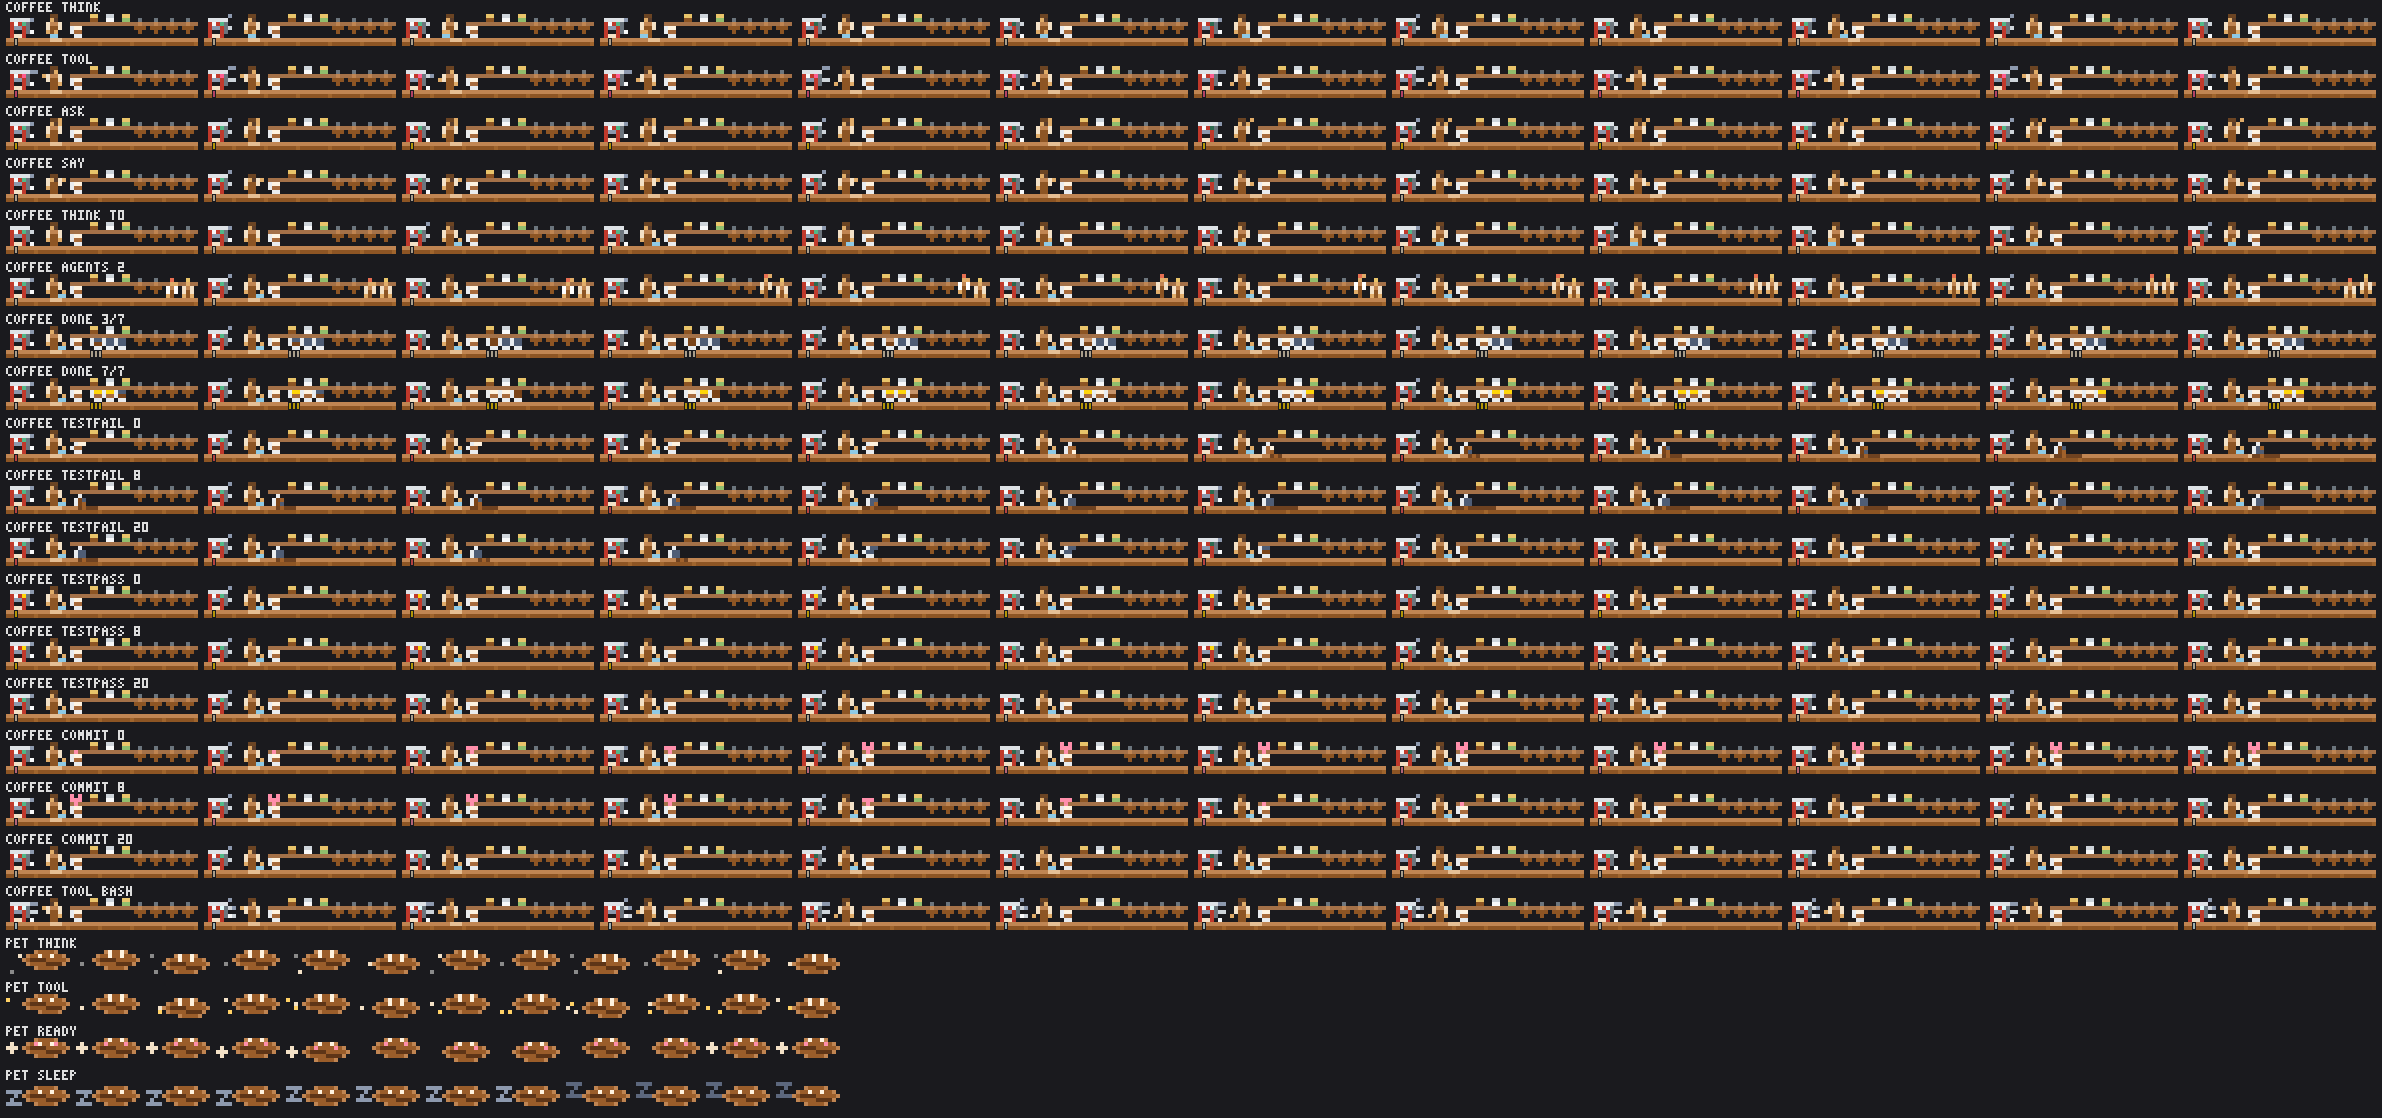
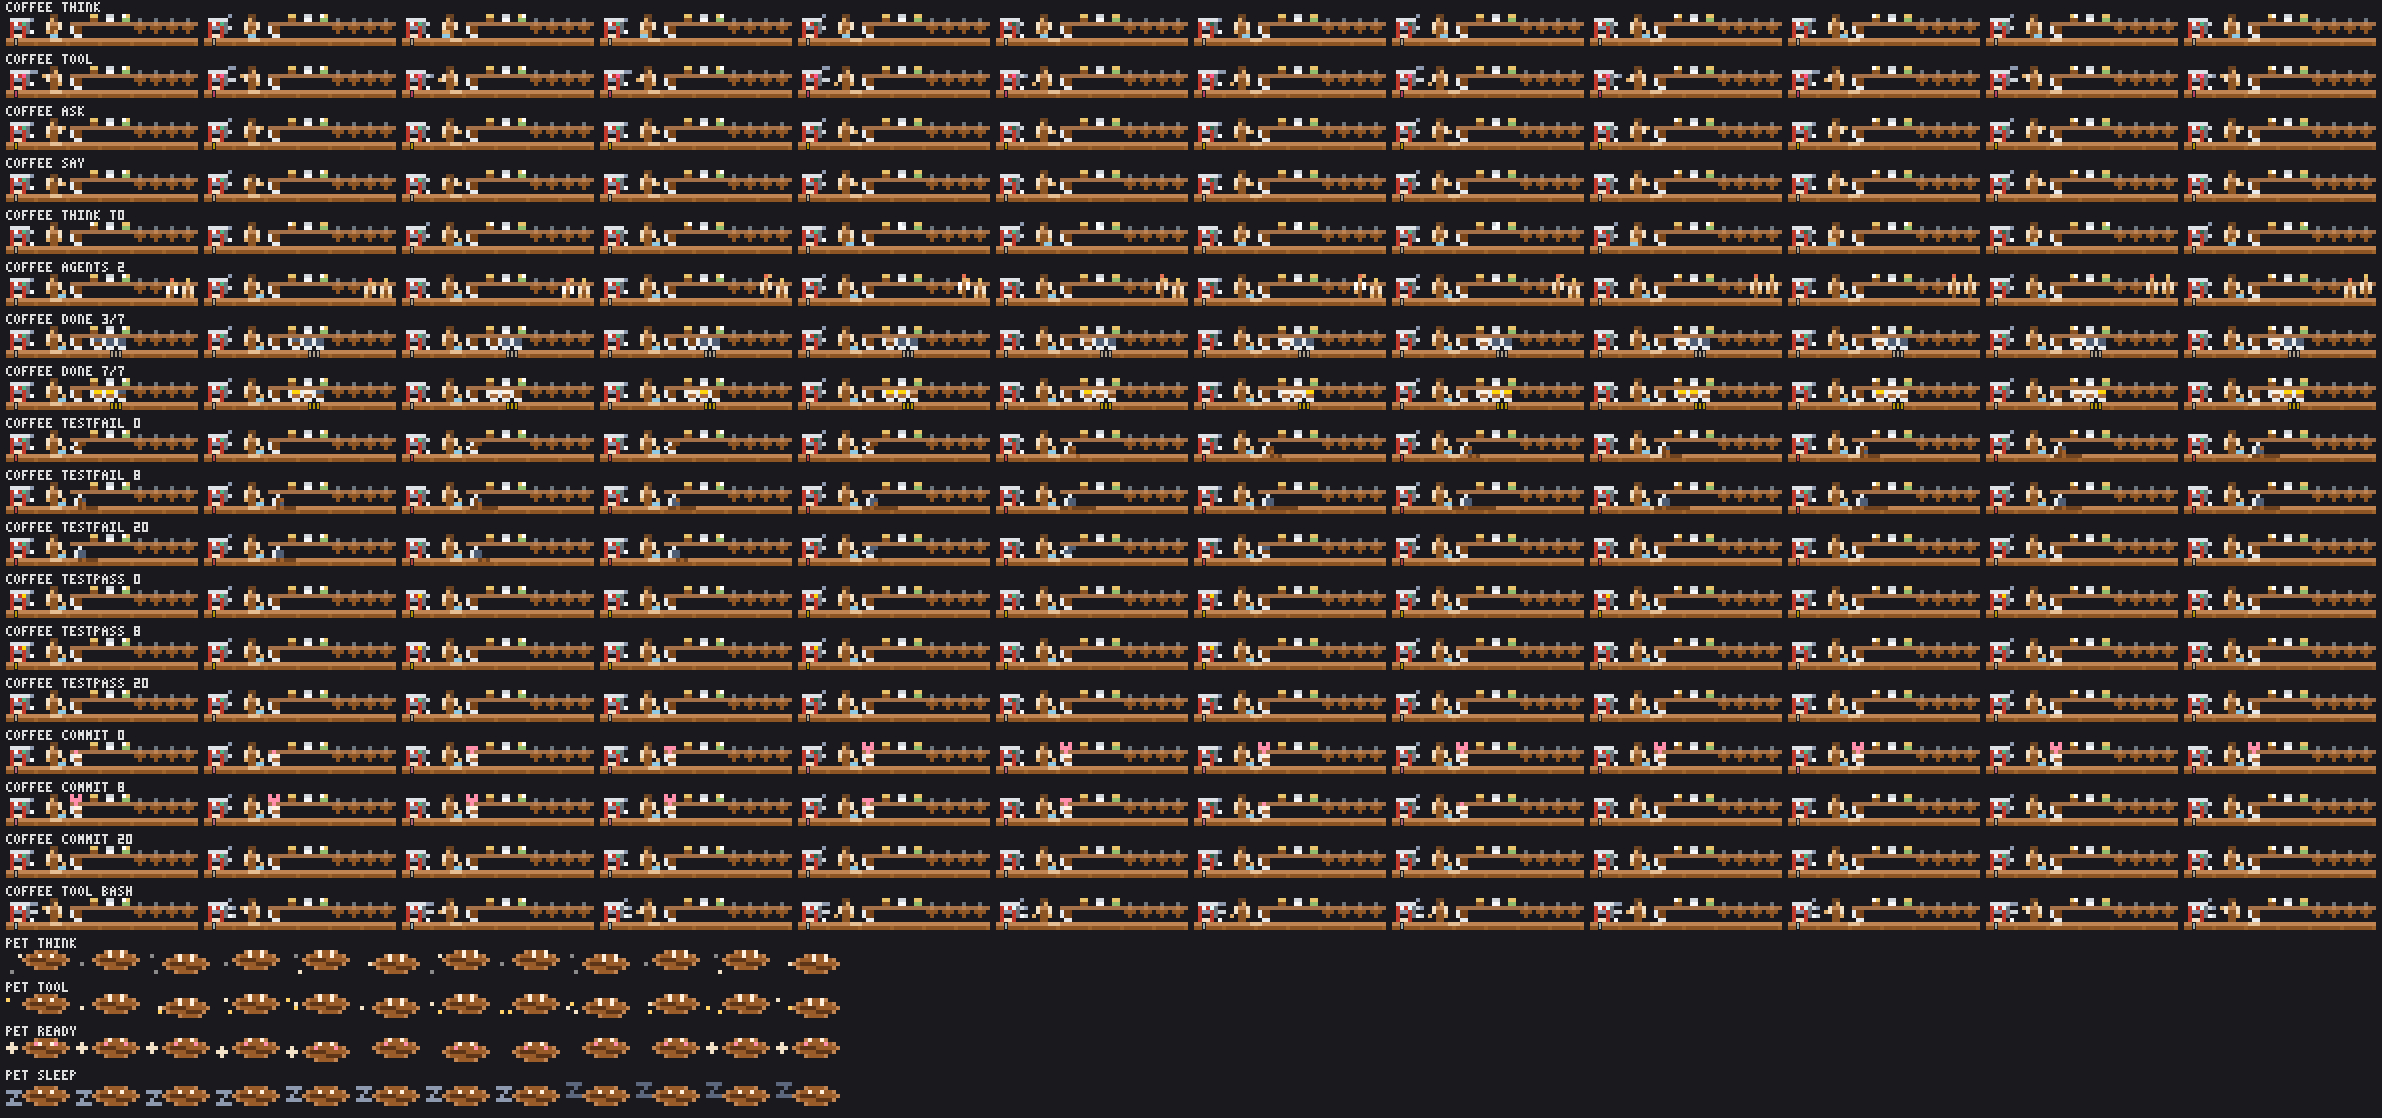
showtime: coffee — review fix: a glint steps across the jar lids a pixel every other frame by `t` so the shelf layer moves in every strip; the ask wave stays at the shoulder; the front cup is a plain espresso at rest; the readout sits clear of the puddle

diff --git a/showtime/hooks/themes/coffee.ts b/showtime/hooks/themes/coffee.ts
@@ -1,11 +1,11 @@
 // Theme: coffee. Its scene, its words and its pet.
 //
 // The scene: a barista in a brown apron (#8d5524, cream sleeves) behind a wooden counter whose top's sheen slides
-// by `t`, a red espresso machine at the left, jars on a shelf behind. Steam rises from its wand a pixel a frame
-// in every act; a tool thickens it on `actAge`, bash puffs it on a 2-frame cycle, edit drips into the shot cup,
-// and the lamp and the chalk sign on the counter name the tool. He wipes the counter thinking (12 frames), works
-// the machine in a tool, raises a hand asking, gestures saying, leans waiting. A glass mug per task, `done` of
-// them filled (the newest in four stages); a barista per agent at an apron's peg, waving as it joins. testFail tips
+// by `t`, a red espresso machine at the left, jars on a shelf behind (a glint crossing their lids). Steam rises
+// from its wand a pixel a frame in every act; a tool thickens it on `actAge`, bash puffs it on a 2-frame cycle, edit
+// drips into the shot cup, and the lamp and the chalk sign name the tool. He wipes the counter thinking (12 frames),
+// works the machine in a tool, waves at the shoulder asking, gestures saying, leans waiting. A glass mug per task,
+// `done` of them lattes (the newest filling in four stages); a barista per agent at an apron's peg. testFail tips
 // the front cup and spills a puddle; testPass stars the sign; a commit lifts a latte-art heart off the front cup.
 // Motion rules: the steam column touches the machine in every cell row and its mask changes every frame, so no
 // frame holds and it never starts a run; the shelf breaks at the front cup so the heart starts over a run start.
@@ -22,6 +22,8 @@ type Ink = Record<string, string>
  * an agent's slot pitch; the most cups and agents. */
 const [STEAM_X, BAR_X, FRONT_X, CUPS_X, CUP_PITCH, SLOT_W] = [6, 10, 16, 21, 3, 4]
 const [MAX_CUPS, MAX_AGENTS] = [12, 4]
+/** The chalk readout's column on the counter front, clear of the spill's puddle (FRONT_X + 4 ± 5). */
+const READOUT_X = 26
 /** Frames: an act's change, a fill stage, a greeting, the 100% shimmer; a passed test, the heart; a spill. */
 const [CHANGE_FRAMES, FILL_STEP, GREET_FRAMES, ALL_FRAMES, PASS_FRAMES, HEART_FRAMES, SPILL_FRAMES] =
   [4, 2, 8, 16, 16, 16, 30]
@@ -31,6 +33,7 @@ const [BODY, WAND, TRAY, STEEL, GAUGE, SHOT] = ['#c0392b', '#6c757d', '#dee2e6',
 const [STEAM_HOT, STEAM, STEAM_DIM] = ['#f8f9fa', '#ced4da', '#8d99ae']
 const [GLASS, EMPTY, ESPRESSO, MILK, FOAM, LATTE] = ['#e9ecef', '#4f5d75', '#7a4419', '#c8956b', '#fff3e0', '#a86b3c']
 const [TOP, SHEEN, FRONT, SEAM, PUDDLE, GLOSS] = [RIM, '#e6bf94', BROWN, '#a0652d', '#6f4220', '#a0612b']
+const GLINT = '#ffffff'
 const [SHELF, CLOTH, GOLD, RED, HEART, GREEN] = ['#a47148', '#8ecae6', '#ffd60a', '#ff5d5d', '#ff8fab', '#52b788']
 const JARS = [['#e9c46a', BROWN], ['#ced4da', '#f8f9fa'], ['#e9c46a', '#90be6d'], ['#ced4da', '#b5651d']]
 const AGENT_HAIR = ['#e9c46a', '#e76f51', '#90be6d', '#a8dadc']
@@ -113,12 +116,12 @@ function pose(s: Signals): { dy: number; hy: number; face: number; hands: Px[]; 
     return { dy: 0, hy: 0, face: a < 1 ? 1 : -1, hands: [[BAR_X - 1, a < 1 ? 4 : frame(PULL, a - 1)], right] }
   }
   if (s.act === 'ask') {
-    const raise: Px[][] = [[right], [[BAR_X + 4, 3]], [[BAR_X + 4, 2]], [[BAR_X + 3, 1]]]
-    const wave: Px[] = mod(a, 12) < 6 ? [[BAR_X + 3, 1], [BAR_X + 4, 0]] : [[BAR_X + 3, 1], [BAR_X + 3, 0]]
-    return { dy: 0, hy: 0, face: 1, hands: [left, ...(a < 4 ? raise[a]! : wave)] }
+    // Raised to the shoulder (never above pixel row 2, so leaving drops it a cell at most), waving up and down.
+    const hand: Px = a < 1 ? right : a < 2 ? [BAR_X + 4, 3] : [BAR_X + 4, mod(a - 2, 12) < 6 ? 2 : 3]
+    return { dy: 0, hy: 0, face: 1, hands: [left, hand] }
   }
   if (s.act === 'say') {
-    const hand: Px = a < 1 ? right : [BAR_X + 4, mod(a, 12) < 6 ? 3 : 2]
+    const hand: Px = a < 1 ? right : [BAR_X + 4, 3]
     return { dy: 0, hy: mod(a, 12) >= 6 && mod(a, 12) < 9 ? 1 : 0, face: 1, hands: [left, hand] }
   }
   return { dy: mod(a, 16) < 8 ? 0 : 1, hy: 0, face: 1, hands: a < 1 ? [left, right] : [[BAR_X, 5], [BAR_X + 3, 5]] }
@@ -155,10 +158,13 @@ export function coffeeScene(t: number, w: number, s: Signals): Grid {
 
   // Layer 1: the shelf behind (broken left of the front cup, so the heart rises from a run start) and its jars.
   for (let x = FRONT_X; x < w; x++) plot(cv, x, 2, SHELF)
-  for (let j = 0, x = CUPS_X; x + 1 <= limit; j++, x += 4) {
+  // A glint steps across the lids a pixel every other frame by `t`, then rests two steps before it comes round.
+  const jars = Math.max(0, Math.floor((limit - CUPS_X + 3) / 4))
+  const glint = mod(t >> 1, Math.max(6, 2 * jars + 2))
+  for (let j = 0, x = CUPS_X; j < jars; j++, x += 4) {
     const [lid, fill] = JARS[mod(j, JARS.length)]!
     for (const c of [0, 1]) {
-      plot(cv, x + c, 0, lid!)
+      plot(cv, x + c, 0, glint === 2 * j + c ? GLINT : lid!)
       plot(cv, x + c, 1, fill!)
     }
   }
@@ -211,13 +217,13 @@ export function coffeeScene(t: number, w: number, s: Signals): Grid {
   let puddle = -1
   if (fail >= 0) {
     const tip = fail < 1 ? 1 : fail < 2 ? 0 : fail < 5 ? 1 : fail < 24 ? 2 : fail < 26 ? 1 : 0
-    const stage = fail < 7 ? 4 : fail < 11 ? 1 : fail < 26 ? 0 : Math.min(4, fail - 25)
+    const stage = fail < 7 ? 2 : fail < 11 ? 1 : fail < 26 ? 0 : Math.min(2, fail - 25)
     mug(cv, FRONT_X, stage, tip)
     // Pouring out of its mouth (in the cup's own column, so nothing bridges to the next cup) onto the counter.
     if (fail >= 5 && fail < 13) plot(cv, FRONT_X + 3, 5 - mod(fail, 2), GLOSS)
     if (fail >= 5 && fail < 15) puddle = Math.min(5, (fail - 4) >> 1)
     else if (fail >= 15 && fail < 25) puddle = 5 - ((fail - 14) >> 1)
-  } else mug(cv, FRONT_X, 4)
+  } else mug(cv, FRONT_X, heart >= 0 ? 4 : 2)
   counter(cv, t, FRONT_X + 4, puddle)
   // A commit: a latte-art heart over the front cup, growing in and shrinking out over 16 frames.
   if (heart >= 0) {
@@ -228,7 +234,7 @@ export function coffeeScene(t: number, w: number, s: Signals): Grid {
   const g = cells(cv)
   const { text, c } = sign(s, t, { fail: fail >= 0, pass, heart: heart >= 0 })
   put(g, 2, 3, text, { c, bg: FRONT, b: true })
-  if (s.total > 0) put(g, CUPS_X, 3, `${s.done}/${s.total}`, { c: allDone ? GOLD : CREAM, bg: FRONT, b: true })
+  if (s.total > 0) put(g, READOUT_X, 3, `${s.done}/${s.total}`, { c: allDone ? GOLD : CREAM, bg: FRONT, b: true })
   return g
 }
 
